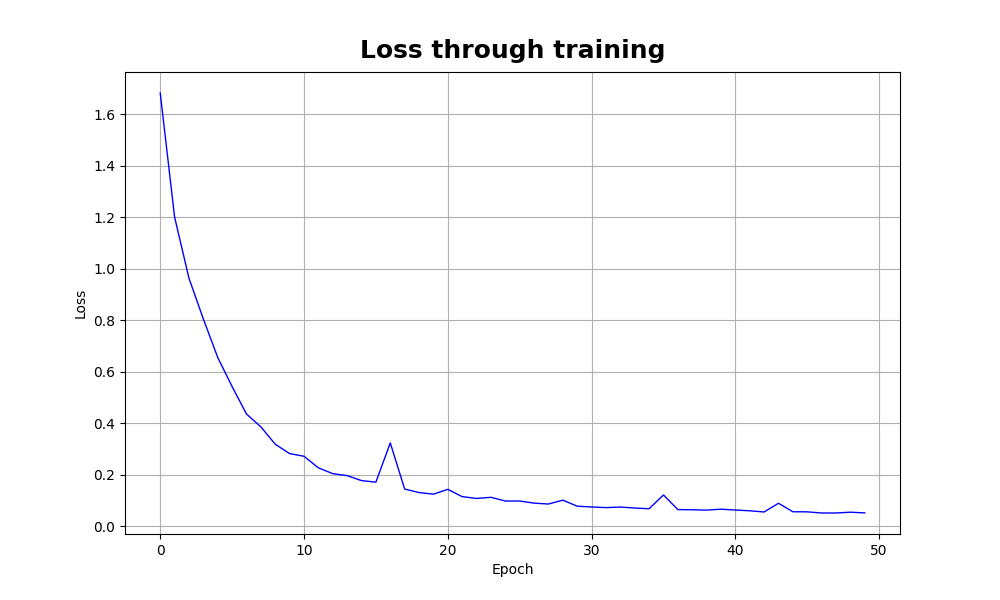
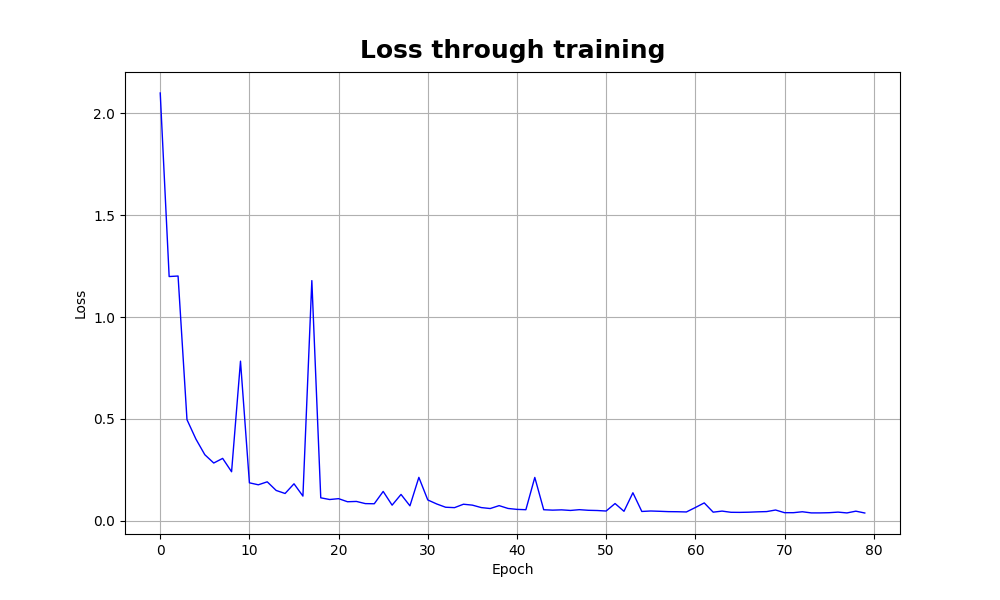
commit

diff --git a/CrossValidation.py b/CrossValidation.py
@@ -4,12 +4,11 @@ from NeuralNetwork import *
 from UtilsFunctions import *
 import concurrent.futures
 
-def cross_validation(X_train, Y_train, X_val, Y_val, num_neurons_list, lambda_list, activation_fn_list, num_epochs_list, minibatch_size_list, dir, print_debug=True):
+def cross_validation(X_train, Y_train, X_val, Y_val, num_neurons_list, lambda_list, activation_fn_list, num_epochs_list, minibatch_size, dir, print_debug=True):
     best_parameters = None
     best_rmse = float('inf')
     best_neurons = None
     best_epochs = None
-    best_minibatch_size = None
     best_lambda = None
     final_mae = None
     error_list_final_model = None
@@ -48,14 +47,13 @@ def cross_validation(X_train, Y_train, X_val, Y_val, num_neurons_list, lambda_li
         }
 
     def update_best_model(result):
-        nonlocal best_rmse, best_parameters, best_neurons, best_epochs, best_minibatch_size, best_lambda, final_mae, error_list_final_model, best_activation_fn, best_regularization
+        nonlocal best_rmse, best_parameters, best_neurons, best_epochs, best_lambda, final_mae, error_list_final_model, best_activation_fn, best_regularization
         if result['rmse'] < best_rmse:
             best_rmse = result['rmse']
             final_mae = result['mae']
             best_parameters = result['parameters']
             best_neurons = result['num_neurons']
             best_epochs = result['epochs']
-            best_minibatch_size = result['minibatch_size']
             best_lambda = result['lambda']
             error_list_final_model = result['error_list']
             best_activation_fn = result['activation_fn']
@@ -67,13 +65,12 @@ def cross_validation(X_train, Y_train, X_val, Y_val, num_neurons_list, lambda_li
     with concurrent.futures.ThreadPoolExecutor() as executor:
         futures = []
         for epochs in num_epochs_list:
-            for minibatch_size in minibatch_size_list:
-                for activation in activation_fn_list:
-                    for num_neurons in num_neurons_list:
-                        futures.append(executor.submit(evaluate_model_CV, num_neurons, epochs, minibatch_size, 0, 0, activation))
-                        for lambda_r in lambda_list:
-                            futures.append(executor.submit(evaluate_model_CV, num_neurons, epochs, minibatch_size, lambda_r, 1, activation))
-                            futures.append(executor.submit(evaluate_model_CV, num_neurons, epochs, minibatch_size, lambda_r, 2, activation))
+            for activation in activation_fn_list:
+                for num_neurons in num_neurons_list:
+                    futures.append(executor.submit(evaluate_model_CV, num_neurons, epochs, minibatch_size, 0, 0, activation))
+                    for lambda_r in lambda_list:
+                        futures.append(executor.submit(evaluate_model_CV, num_neurons, epochs, minibatch_size, lambda_r, 1, activation))
+                        futures.append(executor.submit(evaluate_model_CV, num_neurons, epochs, minibatch_size, lambda_r, 2, activation))
 
         # Aspetta che tutti i thread siano completati
         concurrent.futures.wait(futures)
@@ -92,9 +89,9 @@ def cross_validation(X_train, Y_train, X_val, Y_val, num_neurons_list, lambda_li
     print(f"End cross validation. Time spent for cross validation is {int(min)}:{sec:.2f} min\n")
 
     if best_regularization == 0:
-        text = f"Best configuration is {best_neurons} using no regularization, with activation function {best_activation_fn}, {best_epochs} epochs and minibatch of size {best_minibatch_size}\n"
+        text = f"Best configuration is {best_neurons} using no regularization, with activation function {best_activation_fn}, {best_epochs} epochs and minibatch of size {minibatch_size}\n"
     else:
-        text = f"Best configuration is {best_neurons} using {regularization_list[best_regularization]} with lambda {best_lambda}, activation function {best_activation_fn}, {best_epochs} epochs and minibatch of size {best_minibatch_size}\n"
+        text = f"Best configuration is {best_neurons} using {regularization_list[best_regularization]} with lambda {best_lambda}, activation function {best_activation_fn}, {best_epochs} epochs and minibatch of size {minibatch_size}\n"
 
     print(text)
     text2 = "The RMSE on validation set is: "+str(best_rmse)+"\nThe MAE on validation set is: "+str(final_mae)

diff --git a/Main.py b/Main.py
@@ -16,21 +16,23 @@ def main():
     if dataset == "1":
         X_train, X_val, X_test, y_train, y_val, y_test = AirQualityData()
         dir = "airquality"
+        minibatch_size = 32
     elif dataset == "2":
         X_train, X_val, X_test, y_train, y_val, y_test = SeoulBikeData()
         dir = "seoulbike"
+        minibatch_size = 64
     else:
         X_train, X_val, X_test, y_train, y_val, y_test = HousingData()
         dir = "housing"
+        minibatch_size = 256
 
     # definisci possibili scelte per cross validation
     input_layer = X_train.shape[0]
     num_neurons_list = [[input_layer, 128, 1], [input_layer, 128, 64, 1], [input_layer, 64, 32, 1], [input_layer, 128, 64, 64, 1], [input_layer, 128, 64, 32, 1]]
     lambda_list = [1e-3, 1e-2, 1e-1]
     activation_fn_list = ["relu","tanh"]
-    minibatch_size_list = [64]
-    num_epochs_list = [80]
-    best_parameters, activation_function = cross_validation(X_train, y_train, X_val, y_val, num_neurons_list, lambda_list, activation_fn_list, num_epochs_list, minibatch_size_list, dir)
+    num_epochs_list = [50]
+    best_parameters, activation_function = cross_validation(X_train, y_train, X_val, y_val, num_neurons_list, lambda_list, activation_fn_list, num_epochs_list, minibatch_size, dir)
 
     # print the test rmse and mae
     test_rmse = evaluate_model_rmse(X_test, best_parameters, y_test, activation_function)
